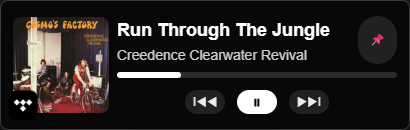
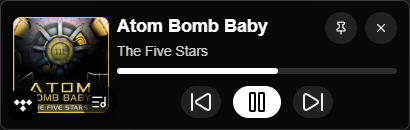
docs: updated readme and assets for readme

diff --git a/README.md b/README.md
@@ -6,6 +6,21 @@ I wanted to build a simple media overlay app that stays on top, so I vibe-coded 
 
 ![Simple Media Overlay](./assets/SimpleMediaOverlay.png)
 
+I decided to add a second overlay that displays synced lyrics, if available, since I found [LCR Library](https://lrclib.net) and [their repo on GitHub](https://github.com/tranxuanthang/lrclib) - here's how that overlay looks:
+
+![Simple Media Overlay - Lyrics Overlay](./assets/SimpleMediaOverlay_Lyrics.png)
+
+## Features
+
+- 📻 Always-on-top overlay that displays currently playing media
+- ℹ Auto-scrolling for longer titles & artist names
+- 📍 Pin the overlay to avoid accidentally moving it, unpin to allow dragging again
+- 👀 Little icon in the bottom left corner of the album art, showing the source of the currently playing media
+- ⏯ Play/Pause, Skip to next or previous track or use the seek bar to skip to a certain part of the currently playing media
+- 🔁 Toggle repeat mode and/or shuffle, [if supported by the player](#current-limitations)
+- 🎼 Toggle the _Lyrics Overlay_ to see synced lyrics, if available on [LRC Library](https://lrclib.net)
+- ✨ Fancy animations when the currently played media or the playback source changes, is played/paused or the overlay is pinned
+
 ## Prerequisites
 
 - **Windows 10 or Windows 11** - This app currently only works on Windows (see [Current Limitations](#current-limitations))
@@ -16,15 +31,6 @@ If you want to build from source or contribute to development:
 
 - **[Node.js](https://nodejs.org/)** (v18 or higher recommended)
 - **[Rust](https://www.rust-lang.org/tools/install)** and [Tauri prerequisites](https://v2.tauri.app/start/prerequisites/)
-
-## Features
-
-- 📻 Always-on-top overlay that displays currently playing media
-- 📍 Pin the overlay to avoid accidentally moving it, unpin to allow dragging again
-- 👀 Little icon in the bottom left corner of the album art, showing the source of the currently playing media
-- ⏯ Play/Pause, Skip to next or previous track or use the seek bar to skip to a certain part of the currently playing media
-- ℹ Auto-scrolling for longer titles
-- ✨ Fancy animations when the currently played media changes, is played/paused or the overlay is pinned
 
 ## Running the overlay
 
@@ -117,6 +123,10 @@ This app is **currently Windows-only** because it relies on the [win-gsmtc](http
 I might switch to a cross-platform crate in the future to support macOS and Linux, but for now, Windows 10/11 is required. 🙂
 
 ## Troubleshooting
+
+**Timeline shows incorrect progress?**
+
+- This is currently a [known issue](https://github.com/fl0-at/simple-media-overlay/issues/4) that I am working on, so feel free to contribute if you spot the root cause of this problem
 
 **Media not showing up?**
 
